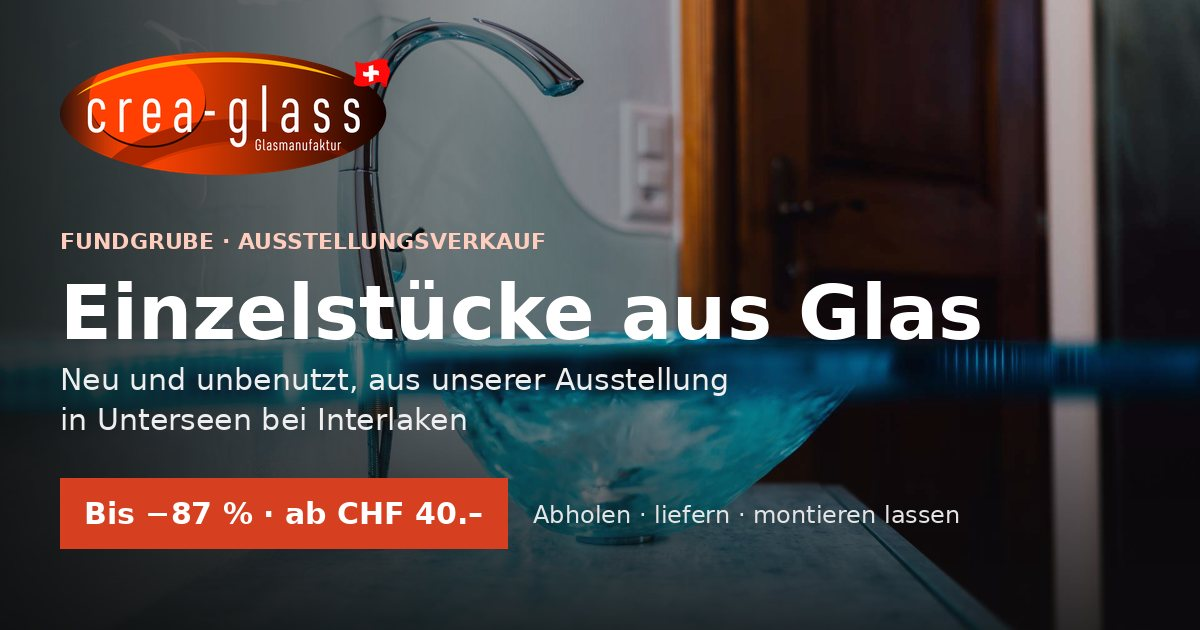
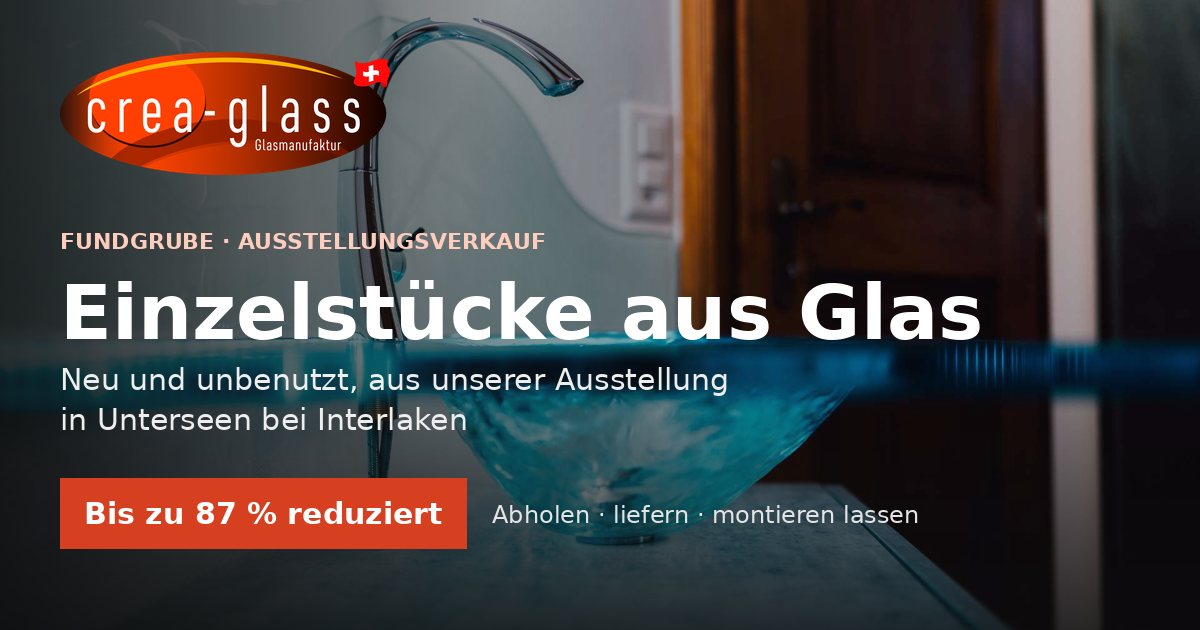
Share preview: discount percentage instead of entry price
Claude-Session: https://claude.ai/code/session_01Fwjz4ejkYkx9Xpgg3hhfVZ

Changed region(s): [[0.1233, 0.754, 0.8017, 0.8746]]

diff --git a/index.html b/index.html
@@ -11,7 +11,7 @@
   <meta property="og:locale" content="de_CH">
   <meta property="og:url" content="https://aktioncrea.vercel.app/">
   <meta property="og:title" content="Fundgrube – Einzelstücke aus Glas | Crea-Glass">
-  <meta property="og:description" content="117 neue Ausstellungsstücke aus der Glasmanufaktur in Unterseen zu Aktionspreisen, bis −87 %. Glaswaschtische, Duschen, Türen, Spiegel. Online ansehen, abholen, liefern oder montieren lassen.">
+  <meta property="og:description" content="117 neue Ausstellungsstücke aus der Glasmanufaktur in Unterseen zu Aktionspreisen, bis zu 87 % reduziert. Glaswaschtische, Duschen, Türen, Spiegel. Online ansehen, abholen, liefern oder montieren lassen.">
   <meta property="og:image" content="https://aktioncrea.vercel.app/assets/og-fundgrube.jpg">
   <meta property="og:image:secure_url" content="https://aktioncrea.vercel.app/assets/og-fundgrube.jpg">
   <meta property="og:image:type" content="image/jpeg">

diff --git a/docs/og-image.py b/docs/og-image.py
@@ -20,7 +20,7 @@ d.text((60,228),'FUNDGRUBE · AUSSTELLUNGSVERKAUF',font=font(22),fill=(255,205,1
 d.text((60,268),'Einzelstücke aus Glas',font=font(76),fill='white')
 d.text((60,362),'Neu und unbenutzt, aus unserer Ausstellung',font=font(30,False),fill=(238,238,238))
 d.text((60,402),'in Unterseen bei Interlaken',font=font(30,False),fill=(238,238,238))
-t='Bis −87 % · ab CHF 40.–'; f=font(30); tw=d.textlength(t,font=f); bx,by=60,478; bw=int(tw+48)
+t='Bis zu 87 % reduziert'; f=font(30); tw=d.textlength(t,font=f); bx,by=60,478; bw=int(tw+48)
 d.rectangle([bx,by,bx+bw,by+70],fill=(214,63,32)); d.text((bx+24,by+18),t,font=f,fill='white')
 d.text((bx+bw+26,by+22),'Abholen · liefern · montieren lassen',font=font(24,False),fill=(228,228,228))
 img.save('assets/og-fundgrube.jpg',quality=84,optimize=True,progressive=True)
